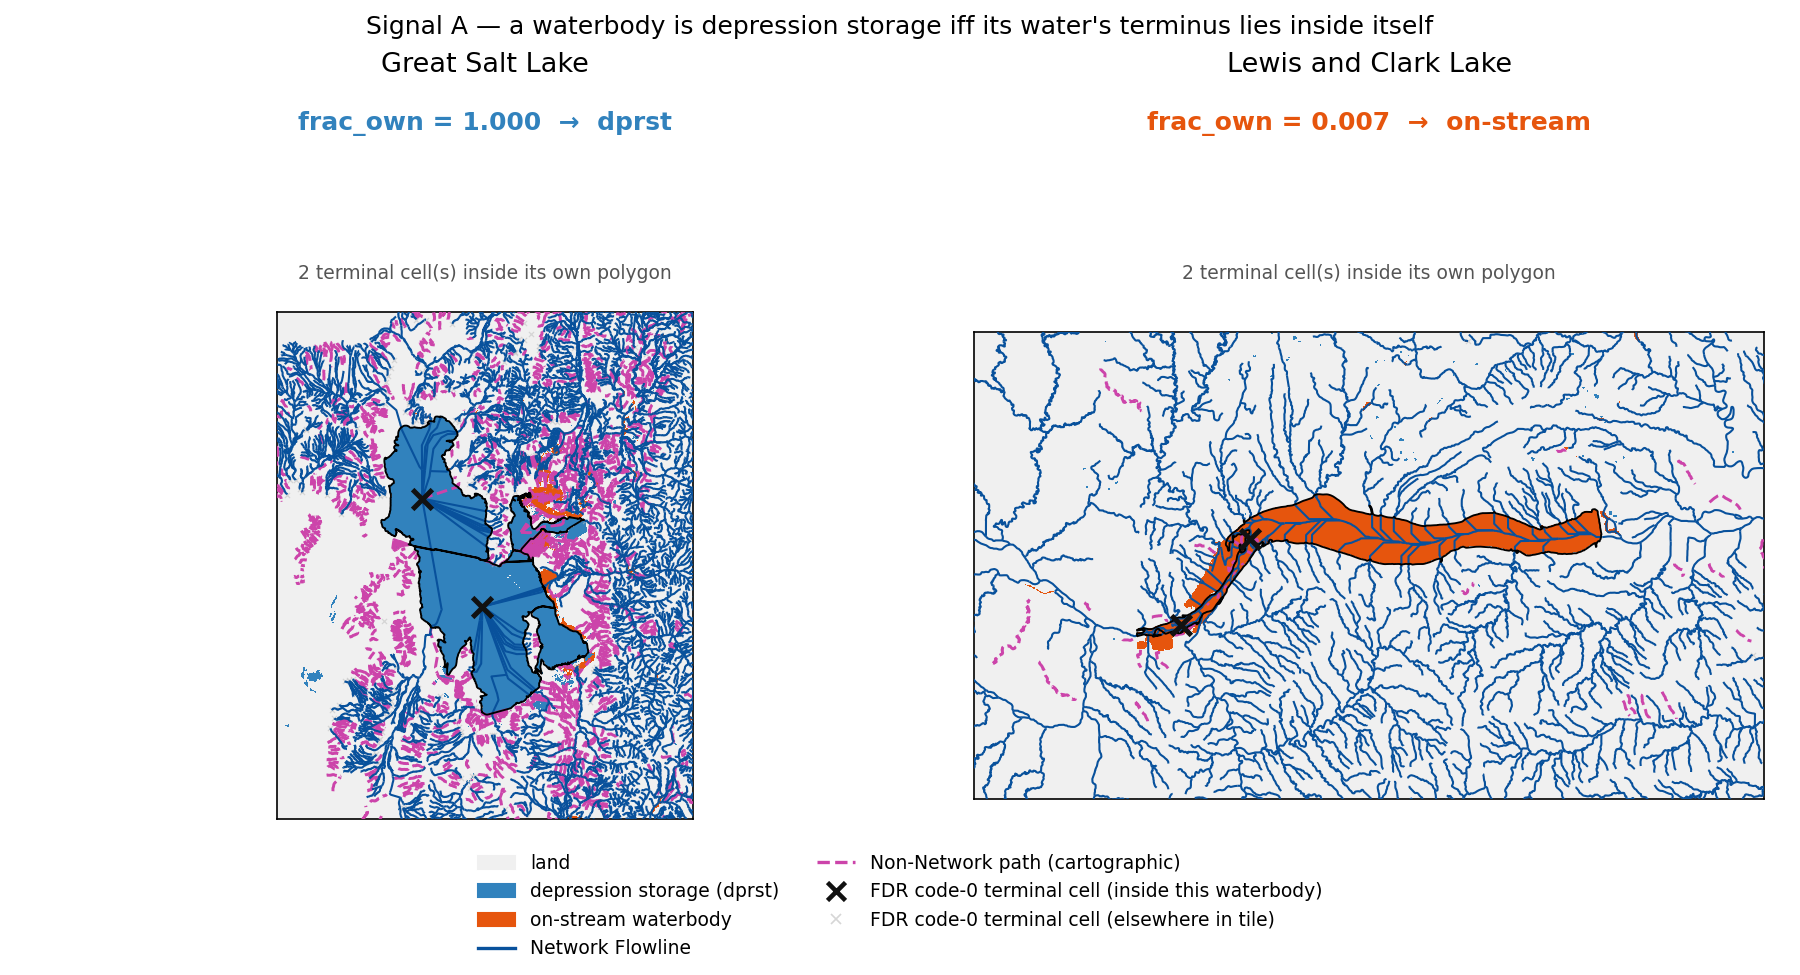
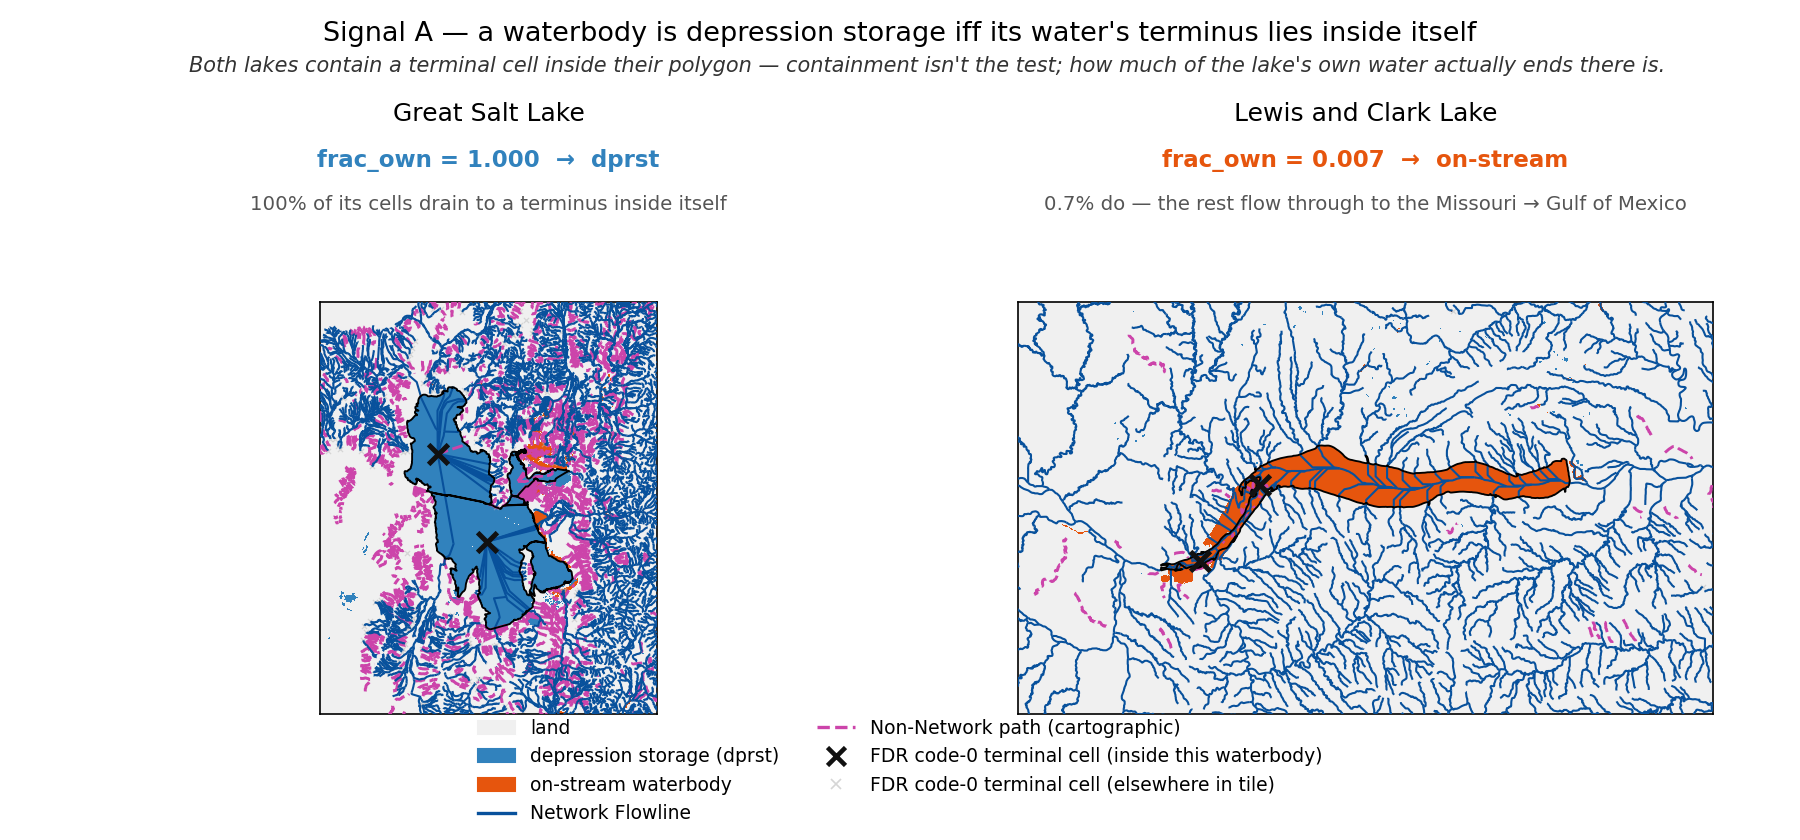
fix(deck): reframe terminus figure on share-of-water, not containment
Both Great Salt Lake and Lewis and Clark Lake contain 2 in-polygon FDR
code-0 terminal cells, so the prior "N terminal cell(s) inside its own
polygon" subtitle was identical on both panels -- handing a skeptical
reader the objection that the rule doesn't discriminate the two lakes.

Replace it with the quantity that actually discriminates them: frac_own,
the share of the waterbody's OWN cells whose D8 path reaches a terminus
inside itself (100% for GSL vs 0.7% for Lewis and Clark, whose water
mostly passes through to the Missouri -> Gulf of Mexico). The percentage
is derived from frac_own, never hardcoded. Add a one-sentence takeaway
under the suptitle stating the point explicitly: containment isn't the
test, share of water is. Tighten the layout (shorter figsize, evenly
spaced text lines) to remove the dead whitespace band between the old
title block and the maps.

Changed region(s): [[0.1556, 0.1857, 0.9956, 0.9905], [0.0933, 0.0, 0.9333, 0.1548], [0.5911, 0.1857, 0.9333, 0.3095]]

diff --git a/scripts/render_depstor_figures.py b/scripts/render_depstor_figures.py
@@ -457,21 +457,34 @@ def fig_terminus_gsl() -> Path:
     of Mexico (frac_own = 0.007), so it stays on-stream. The rule is
     "terminus INSIDE ITSELF", not merely "terminates at a sink": the latter
     would demote every on-stream reservoir in the Great Basin.
+
+    Both lakes contain an in-polygon terminal cell (a narrow-neck FDR artifact
+    puts 2 code-0 cells inside Lewis and Clark's boundary, same raw count as
+    Great Salt Lake) -- so raw containment does NOT discriminate them, and the
+    figure must not imply that it does. What discriminates them is
+    ``frac_own``: the SHARE of the waterbody's own cells whose D8 path actually
+    reaches that terminus. That share, not containment, is what the panels and
+    the takeaway line below the suptitle annotate.
     """
     p = paths()
     end = pd.read_parquet(p["endorheic"])
 
-    fig, axes = plt.subplots(1, 2, figsize=(12, 6.5))
+    fig, axes = plt.subplots(1, 2, figsize=(12, 5.6))
     # Fixed axes rectangle, set up front -- everything above the axes (name,
-    # frac_own, count) is then placed at fixed FIGURE-fraction y-coordinates
-    # via fig.text, not ax.text/set_title, so the three stacked lines never
-    # collide with each other regardless of how tight_layout would otherwise
-    # resize the axes.
-    fig.subplots_adjust(top=0.68, bottom=0.16, left=0.05, right=0.98, wspace=0.12)
+    # frac_own, share-of-water) is then placed at fixed FIGURE-fraction
+    # y-coordinates via fig.text, not ax.text/set_title, so the stacked lines
+    # never collide with each other regardless of how tight_layout would
+    # otherwise resize the axes. Lines are spaced evenly (no single oversized
+    # gap) and the header is kept short so the map -- not whitespace --
+    # dominates the figure at slide size.
+    fig.subplots_adjust(top=0.64, bottom=0.15, left=0.05, right=0.98, wspace=0.10)
 
-    for ax, comid, vpu, name in (
-        (axes[0], GREAT_SALT_LAKE, "16", "Great Salt Lake"),
-        (axes[1], LEWIS_AND_CLARK, "10U", "Lewis and Clark Lake"),
+    for ax, comid, vpu, name, downstream in (
+        (axes[0], GREAT_SALT_LAKE, "16", "Great Salt Lake", None),
+        (
+            axes[1], LEWIS_AND_CLARK, "10U", "Lewis and Clark Lake",
+            "Missouri → Gulf of Mexico",
+        ),
     ):
         wb = read_waterbodies(comids=[comid])
         row = end[end["comid"] == comid]
@@ -510,15 +523,29 @@ def fig_terminus_gsl() -> Path:
         # fall geometrically inside the polygon without being where most of
         # the waterbody's own water actually ends up (frac_own stays tiny).
         verdict_color = CLASS_CMAP.colors[1] if verdict == "dprst" else CLASS_CMAP.colors[2]
+        # Share-of-water framing, derived from frac_own (never hardcoded) --
+        # this replaces the old raw in-polygon COUNT line, which was identical
+        # (2 vs 2) for both lakes and therefore argued AGAINST the figure's
+        # own point. frac_own is what actually discriminates them: 100% of
+        # GSL's own cells terminate inside itself; only 0.7% of Lewis and
+        # Clark's do, the rest pass through downstream.
+        pct = frac * 100
+        if verdict == "dprst":
+            share_text = f"{pct:.0f}% of its cells drain to a terminus inside itself"
+        elif downstream:
+            share_text = f"{pct:.1f}% do — the rest flow through to the {downstream}"
+        else:
+            share_text = f"only {pct:.1f}% of its cells do"
+
         cx = (ax.get_position().x0 + ax.get_position().x1) / 2
-        fig.text(cx, 0.92, name, ha="center", va="bottom", fontsize=13)
+        fig.text(cx, 0.85, name, ha="center", va="bottom", fontsize=12)
         fig.text(
-            cx, 0.86, f"frac_own = {frac:.3f}  →  {verdict}",
-            ha="center", va="bottom", fontsize=12, fontweight="bold", color=verdict_color,
+            cx, 0.795, f"frac_own = {frac:.3f}  →  {verdict}",
+            ha="center", va="bottom", fontsize=11, fontweight="bold", color=verdict_color,
         )
         fig.text(
-            cx, 0.71, f"{len(in_xs)} terminal cell(s) inside its own polygon",
-            ha="center", va="bottom", fontsize=9, color="#555555",
+            cx, 0.745, share_text,
+            ha="center", va="bottom", fontsize=9.5, color="#555555",
         )
 
     fig.legend(
@@ -530,7 +557,17 @@ def fig_terminus_gsl() -> Path:
     )
     fig.suptitle(
         "Signal A — a waterbody is depression storage iff its water's terminus lies inside itself",
-        y=0.985,
+        y=0.975,
+        fontsize=13,
+    )
+    # The takeaway: both lakes contain an in-polygon terminal cell, so raw
+    # containment can't be (and isn't) the test -- forecloses the most
+    # obvious objection before a skeptical reader can raise it.
+    fig.text(
+        0.515, 0.91,
+        "Both lakes contain a terminal cell inside their polygon — containment isn't the "
+        "test; how much of the lake's own water actually ends there is.",
+        ha="center", va="bottom", fontsize=10, style="italic", color="#333333",
     )
     out_path = OUT / "rule_terminus_gsl.png"
     fig.savefig(out_path, dpi=150)